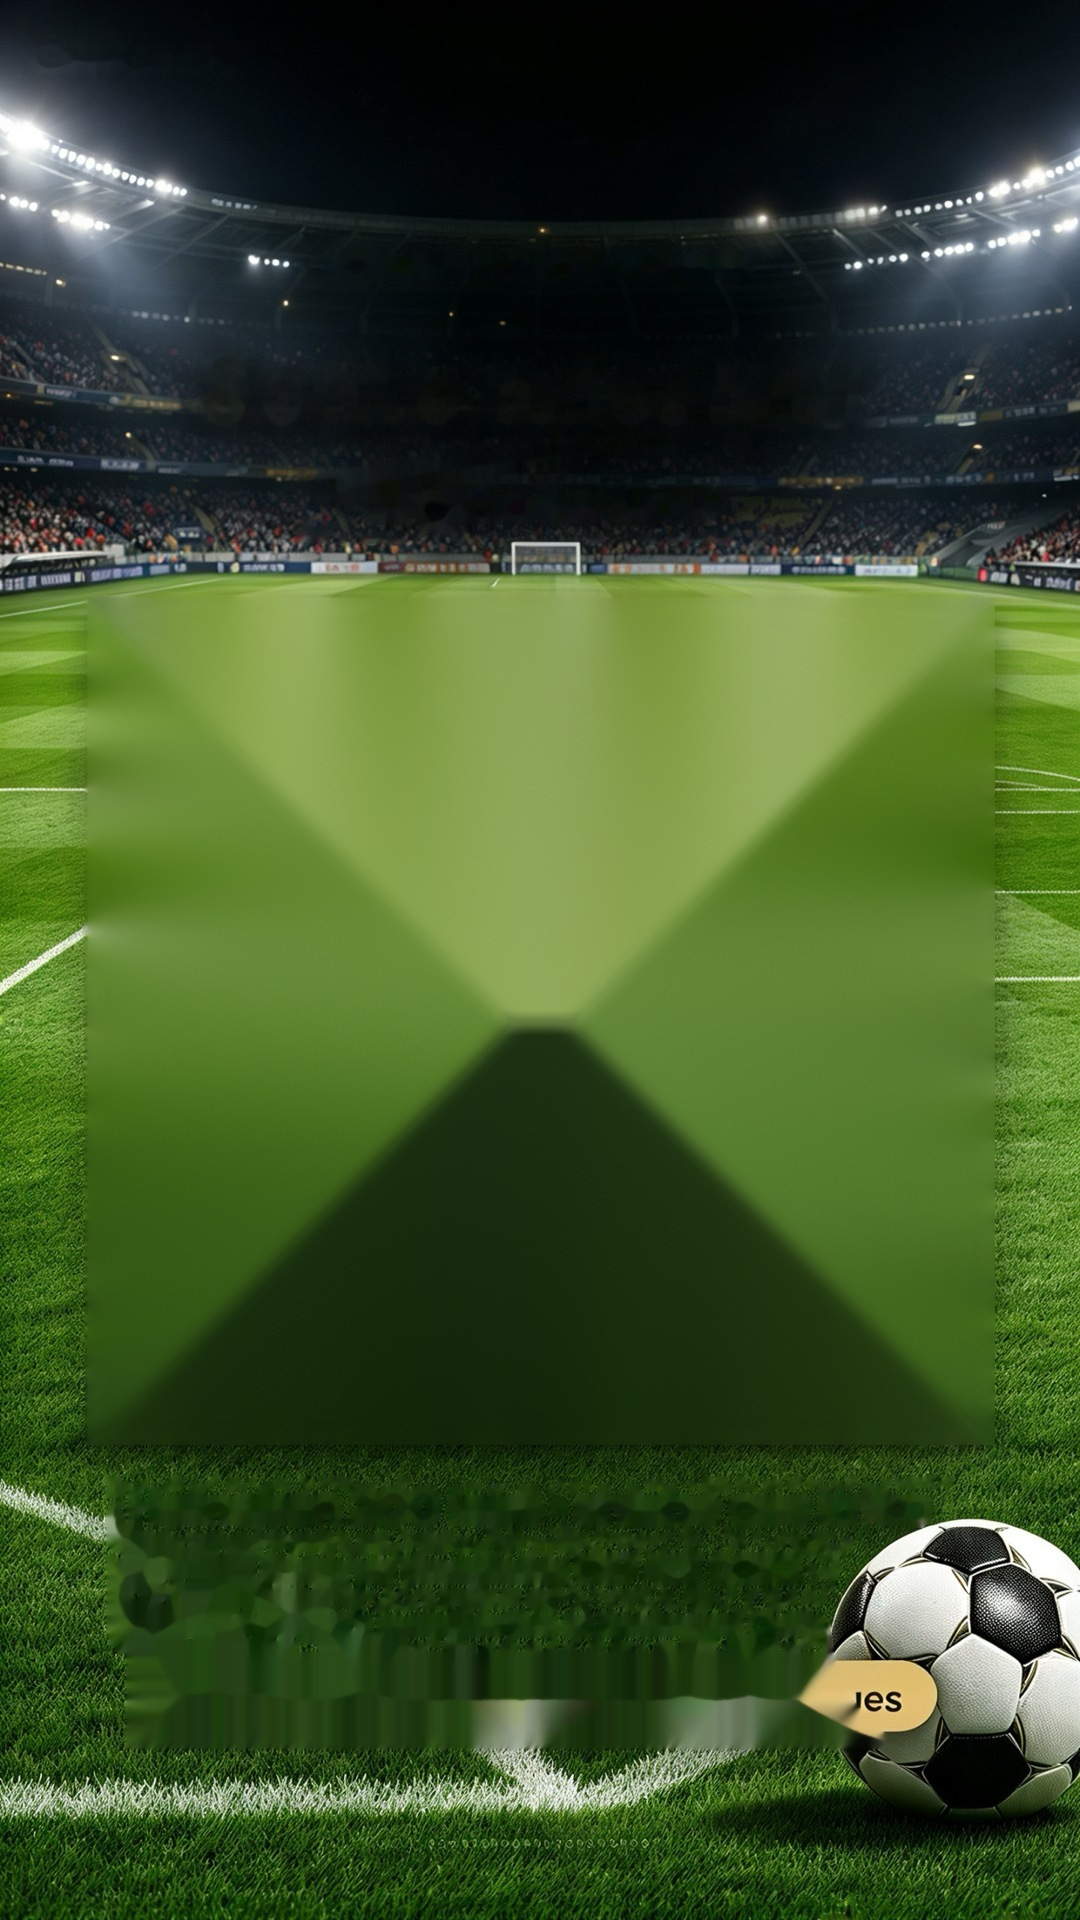
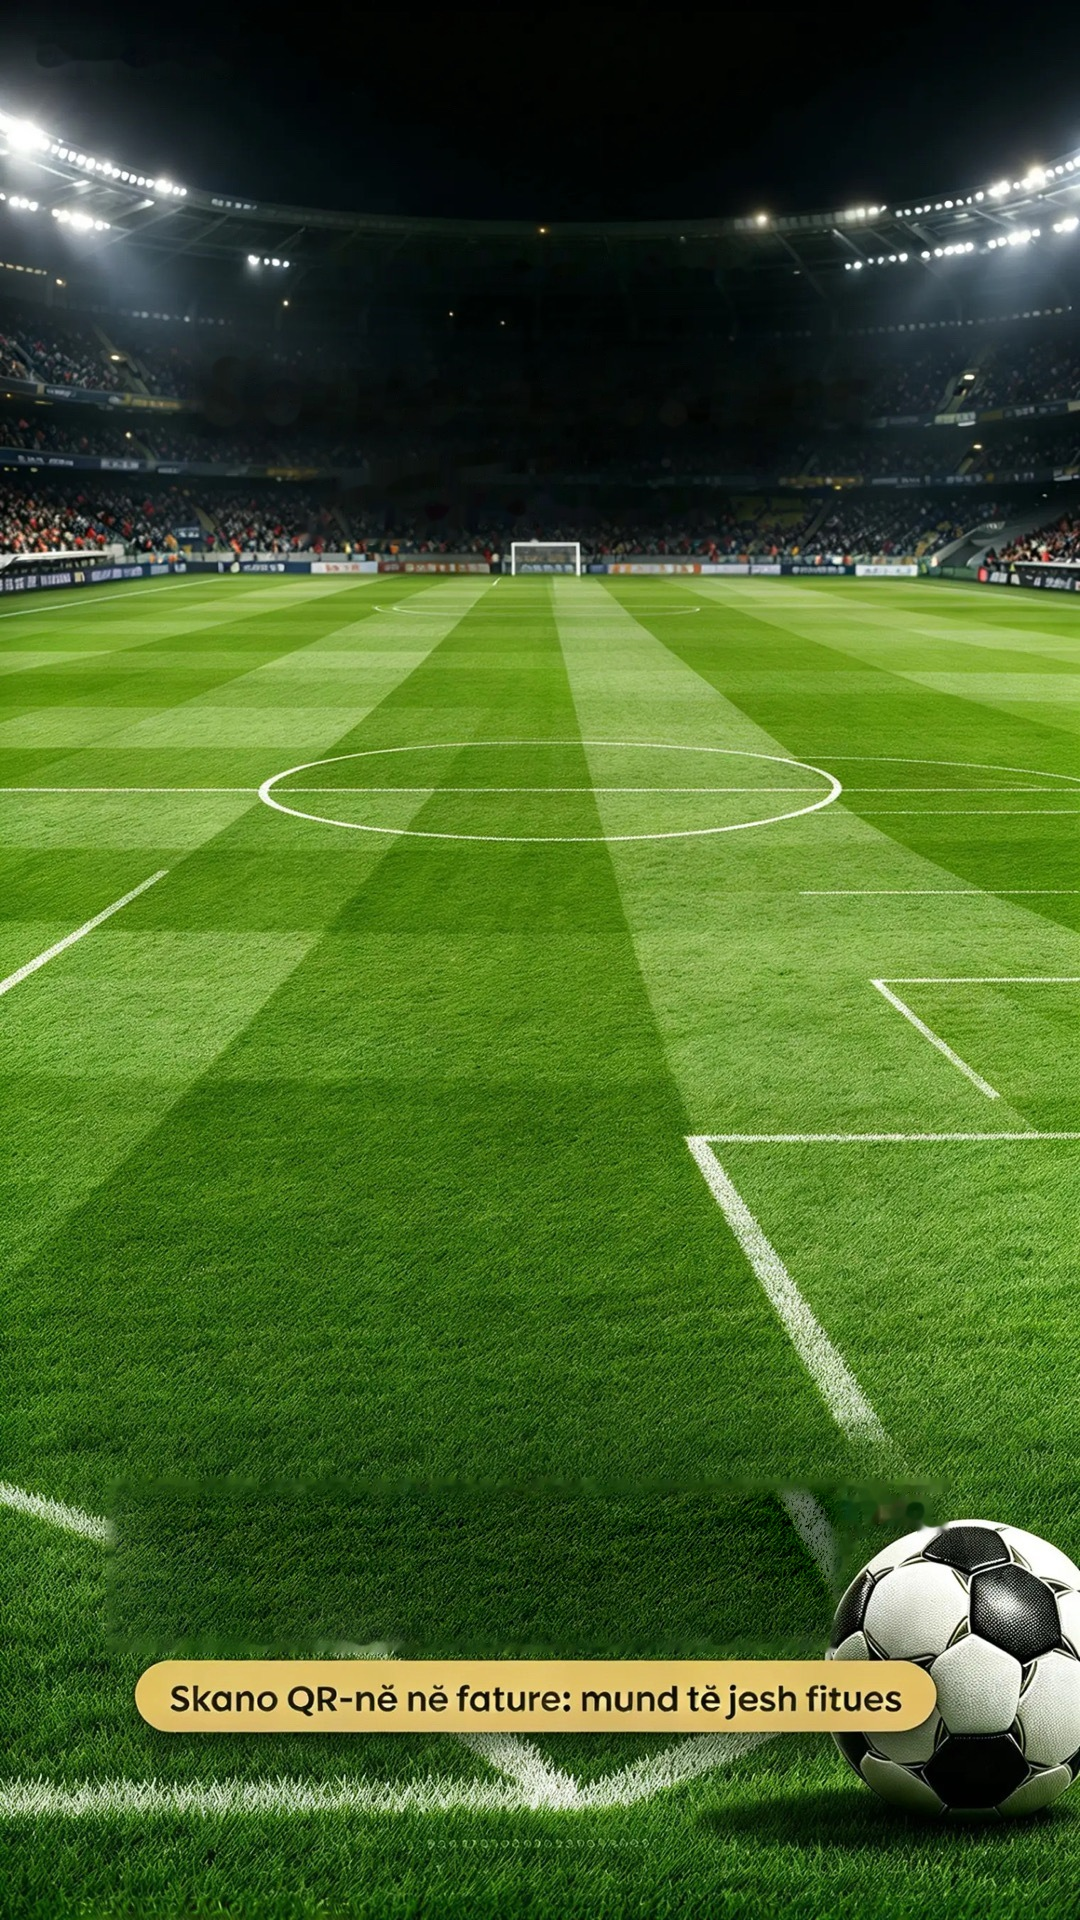
Match-day Story: clean stadium background from the owner, rows directly on the pitch
Claude-Session: https://claude.ai/code/session_01BXnNWV21129nXVSCLX7x1d

diff --git a/tools/matchday.py b/tools/matchday.py
@@ -68,11 +68,8 @@ def render_stadium(date, matches, offer=None, qr=False, logos=True):
     """Owner's chosen design (17 Oct 2026): night stadium + ball, dark rows with gold border."""
     im = Image.open(os.path.join(ROOT, "media", "base", "stadium.jpg")).convert("RGB").resize((W, H))
     ov = Image.new("RGBA", (W, H), (0, 0, 0, 0)); o = ImageDraw.Draw(ov)
-    # soft dark panels hide the grass under rows and footer
-    o.rounded_rectangle([70, 585, W - 70, 1460], 34, fill=(12, 14, 10, 200))
-    o.rounded_rectangle([95, 1470, 985, 1650], 30, fill=(12, 14, 10, 175))
     n = len(matches[:7]); rh, gap = 104, 120
-    y0 = 600 + max(0, (7 - n) * gap // 2)
+    y0 = 600 + max(0, (7 - n) * gap // 3)
     for i in range(n):
         y = y0 + i * gap
         o.rounded_rectangle([90, y, W - 90, y + rh], 20, fill=(24, 20, 14, 238), outline=(226, 192, 128, 255), width=2)
@@ -83,10 +80,15 @@ def render_stadium(date, matches, offer=None, qr=False, logos=True):
     center(d, 478, "të gjitha live te ne", pop(42, "Medium"), GOLD)
     for i, (t, home, away, comp) in enumerate(matches[:7]):
         row_content(im, d, y0 + i * gap, t, home, away, comp, logos)
-    y = 1490
-    if offer: center(d, y, offer, pop(44, "Medium"), GOLD)
-    center(d, 1556, "Rezervo tavolinën: 067 401 0030", pop(36, "Medium"), CREAM)
-    center(d, 1606, "Tonight's matches live at Boulevard Caffe", pop(28), MUTED)
+    sh = Image.new("RGBA", (W, H), (0, 0, 0, 0)); sd = ImageDraw.Draw(sh)
+    lines = ([(1490, offer, pop(44, "Medium"), GOLD)] if offer else []) + [
+        (1556, "Rezervo tavolinën: 067 401 0030", pop(36, "Medium"), CREAM),
+        (1606, "Tonight's matches live at Boulevard Caffe", pop(28, "Medium"), CREAM)]
+    for yy, t, f, _ in lines:
+        bb = sd.textbbox((0, 0), t, font=f); sd.text(((W - (bb[2] - bb[0])) // 2 - bb[0] + 2, yy + 3), t, font=f, fill=(0, 0, 0, 200))
+    sh = sh.filter(ImageFilter.GaussianBlur(4))
+    im = Image.alpha_composite(im.convert("RGBA"), sh).convert("RGB"); d = ImageDraw.Draw(im)
+    for yy, t, f, col in lines: center(d, yy, t, f, col)
     # pill always drawn in the same place (covers the old artwork under it)
     t = "Skano QR-në në faturë: mund të jesh fitues" if qr else "Boulevard Caffe · Bulevardi Qemal Stafa"
     f = pop(36, "Medium")
